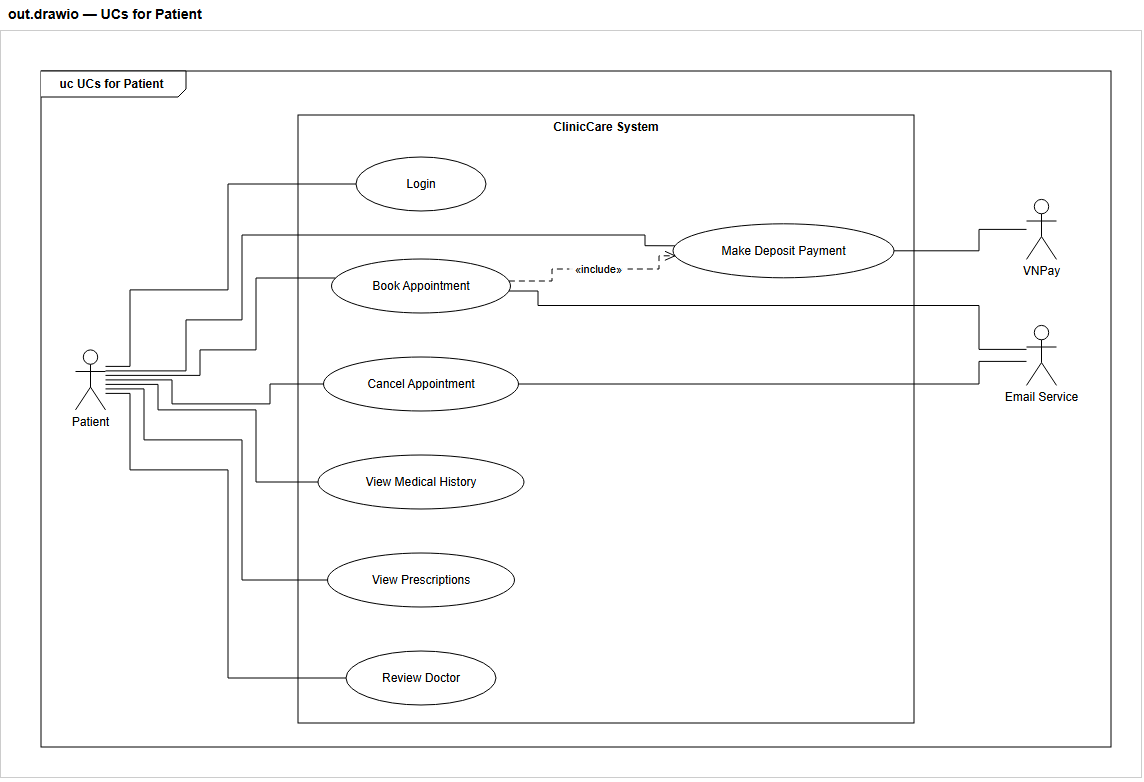
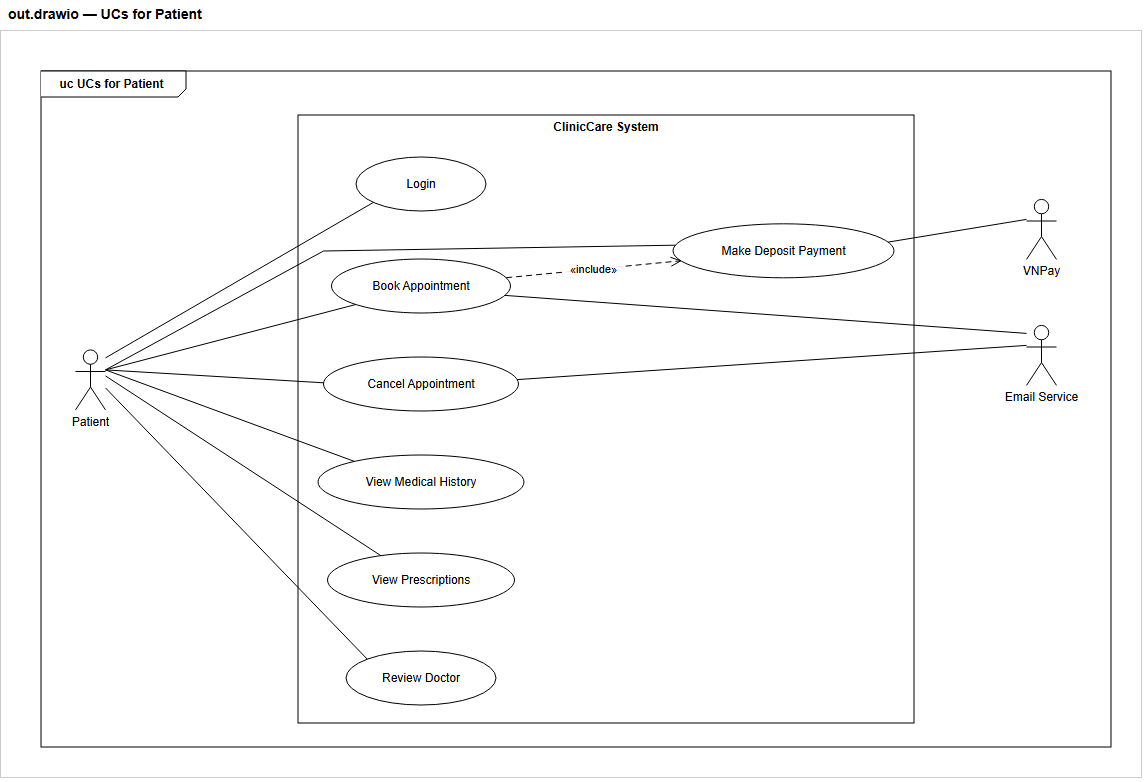
feat(layout): straight use case edges, horizontal activity by default
- Use case: edges are straight segments (one bend only when a shape blocks the
  way), chosen to minimise crossings and near-parallel runs; endpoints slide on
  the ellipse / actor side; labels avoid shapes, actor names and other edges.
- Activity: default direction is LR (flow left->right, lanes stacked
  top->bottom); "direction": "TB" still gives the vertical layout.
- Tests: use case edges have at most one bend; activity default equals LR.
- README / skill docs and preview images updated.

diff --git a/comet-uml-drawio/scripts/uml2drawio.py b/comet-uml-drawio/scripts/uml2drawio.py
@@ -127,7 +127,7 @@ FRAME_KIND = {
     # so do nghiep vu / du lieu (khong phai UML): khung chi ghi ten
     "erd": "", "screenflow": "", "bizcontext": "",
 }
-DEFAULT_DIR = {"usecase": "LR", "communication": "LR"}
+DEFAULT_DIR = {"usecase": "LR", "communication": "LR", "activity": "LR"}
 # quan he khong ghi "type": mac dinh theo loai so do (activity/state: luong co guard; erd: relationship...)
 DEFAULT_REL = {"activity": "flow", "state": "transition", "erd": "relationship", "screenflow": "navigate"}
 
@@ -836,6 +836,312 @@ def _constraint(p, el, kind):
     return "%sX=%s;%sY=%s;%sDx=0;%sDy=0;%sPerimeter=0;" % (kind, _n(fx, 4), kind, _n(fy, 4), kind, kind, kind)
 
 
+def _seg_hits(p, q, r):
+    """Doan pq di vao trong hinh chu nhat r=(x0,y0,x1,y1) (Liang-Barsky)."""
+    dx, dy = q[0] - p[0], q[1] - p[1]
+    t0, t1 = 0.0, 1.0
+    for pp, qq in ((-dx, p[0] - r[0]), (dx, r[2] - p[0]), (-dy, p[1] - r[1]), (dy, r[3] - p[1])):
+        if abs(pp) < 1e-9:
+            if qq < 0:
+                return False
+            continue
+        t = qq / pp
+        if pp < 0:
+            t0 = max(t0, t)
+        else:
+            t1 = min(t1, t)
+        if t0 > t1:
+            return False
+    return t1 - t0 > 1e-6
+
+
+def _orient(o, a, b):
+    return (a[0] - o[0]) * (b[1] - o[1]) - (a[1] - o[1]) * (b[0] - o[0])
+
+
+def _grow(r, d):
+    return (r[0] - d, r[1] - d, r[2] + d, r[3] + d)
+
+
+def _on_ellipse(el, toward):
+    """Diem tren vien ellipse cua el theo tia tu tam toi 'toward'."""
+    a, b = el.sr[2] / 2, el.sr[3] / 2
+    cx, cy = el.ax + a, el.ay + b
+    dx, dy = toward[0] - cx, toward[1] - cy
+    k = math.hypot(dx / a, dy / b) if a and b else 0
+    if k < 1e-9:
+        return (cx, cy)
+    return (cx + dx / k, cy + dy / k)
+
+
+def _ellipse_fan(el, p0):
+    """Cac diem tren vien ellipse quanh p0 (goc tham so lech 0, +-12, ... +-60 do) -> [(do lech, diem)]."""
+    a, b = el.sr[2] / 2, el.sr[3] / 2
+    cx, cy = el.ax + a, el.ay + b
+    t0 = math.atan2((p0[1] - cy) / b, (p0[0] - cx) / a)
+    out = [(0, p0)]
+    for k in range(1, 6):
+        for sgn in (-1, 1):
+            t = t0 + sgn * math.radians(12 * k)
+            out.append((k, (cx + a * math.cos(t), cy + b * math.sin(t))))
+    return out
+
+
+def _on_box(el, toward):
+    """Diem ra khoi khung hinh el tren tia tu tam toi 'toward' (actor, hinh chu nhat)."""
+    w, h = el.sr[2], el.sr[3]
+    cx, cy = el.ax + w / 2, el.ay + h / 2
+    dx, dy = toward[0] - cx, toward[1] - cy
+    k = max(abs(dx) / (w / 2) if w else 0, abs(dy) / (h / 2) if h else 0)
+    if k < 1e-9:
+        return (cx, cy)
+    return (cx + dx / k, cy + dy / k)
+
+
+def _box_fan(el, p0):
+    """Cac diem tren canh cua khung quanh p0 (truot doc canh chua p0 moi 6px) -> [(do lech, diem)]."""
+    x0, y0, w, h = el.ax, el.ay, el.sr[2], el.sr[3]
+    out = [(0, p0)]
+    for k in range(1, 7):
+        for sgn in (-1, 1):
+            d = sgn * 6 * k
+            if abs(p0[0] - x0) < 0.5 or abs(p0[0] - x0 - w) < 0.5:
+                q = (p0[0], p0[1] + d)
+                if y0 + 3 <= q[1] <= y0 + h - 3:
+                    out.append((k, q))
+            else:
+                q = (p0[0] + d, p0[1])
+                if x0 + 3 <= q[0] <= x0 + w - 3:
+                    out.append((k, q))
+    return out
+
+
+def straight_usecase_edges(E, edges, extra):
+    """Use case: canh noi thang thay cho duong be vuong. Moi canh thu doan thang (diem gan truot tren vien ellipse /
+    canh actor); bi hinh, ten actor hay tieu de khung (extra) chan thi vong mot goc sat hinh can duong; bi het thi rut
+    gon duong vuong cua bo cuc. Duong duoc chon de it cat nhau, it chay sat song song, it goc nhat. Nhan canh dat lai
+    tren duong moi, tranh hinh/canh/nhan khac."""
+    shape = {k: (el.ax, el.ay, el.ax + el.sr[2], el.ay + el.sr[3]) for k, el in E.items() if el.sr[2] and el.sr[3]}
+    names = {}   # ten actor ve duoi hinh: (x0, y0, x1, y1)
+    for k, el in E.items():
+        if el.kind == "actor" and el.h > el.sr[3] + el.sr[1] + 1:
+            x0 = el.ax - el.sr[0]
+            names[k] = (x0, el.ay + el.sr[3], x0 + el.w, el.ay - el.sr[1] + el.h)
+    PAD = 6
+    blocks = list(shape.values()) + list(names.values()) + extra
+
+    def ell(k):
+        return E[k].perim == "ellipse"
+
+    def hit_ellipse(p, q, r, d):
+        """Doan pq cham ellipse noi tiep r (noi rong d)."""
+        A, B = (r[2] - r[0]) / 2 + d, (r[3] - r[1]) / 2 + d
+        cx, cy = (r[0] + r[2]) / 2, (r[1] + r[3]) / 2
+        ux, uy, vx, vy = (p[0] - cx) / A, (p[1] - cy) / B, (q[0] - cx) / A, (q[1] - cy) / B
+        dx, dy = vx - ux, vy - uy
+        L2 = dx * dx + dy * dy
+        t = 0.0 if L2 < 1e-12 else max(0.0, min(1.0, -(ux * dx + uy * dy) / L2))
+        return math.hypot(ux + dx * t, uy + dy * t) < 1.0
+
+    def free(p, q, skip):
+        x0, x1 = min(p[0], q[0]) - PAD, max(p[0], q[0]) + PAD
+        y0, y1 = min(p[1], q[1]) - PAD, max(p[1], q[1]) + PAD
+        for k, r in shape.items():
+            if k in skip or r[0] > x1 or r[2] < x0 or r[1] > y1 or r[3] < y0:
+                continue
+            if ell(k):   # ellipse: khong vao khung bao (validator) va cach duong vien >= PAD
+                if _seg_hits(p, q, _grow(r, 1)) or hit_ellipse(p, q, r, PAD):
+                    return False
+            elif _seg_hits(p, q, _grow(r, PAD)):
+                return False
+        if any(_seg_hits(p, q, _grow(r, PAD)) for r in [r for k, r in names.items() if k not in skip] + extra):
+            return False
+        # ten cua chinh actor dau mut: chi can khong cat qua chu
+        return not any(_seg_hits(p, q, _grow(names[k], 2)) for k in skip if k in names)
+
+    def fan(k, p0):
+        return _ellipse_fan(E[k], p0) if ell(k) else _box_fan(E[k], p0)
+
+    def anchor(k, toward):
+        el = E[k]
+        if ell(k):
+            return _on_ellipse(el, toward)
+        if el.kind == "actor":   # moi duong cua actor toa ra tu mot diem ngang tay, phia huong ve dau kia
+            return (el.ax + (el.sr[2] if toward[0] >= el.ax + el.sr[2] / 2 else 0), el.ay + el.sr[3] / 3)
+        return _on_box(el, toward)
+
+    def bbox(P, d=0):
+        return (min(p[0] for p in P) - d, min(p[1] for p in P) - d, max(p[0] for p in P) + d, max(p[1] for p in P) + d)
+
+    def meet(r, t):
+        return r[0] <= t[2] and t[0] <= r[2] and r[1] <= t[3] and t[1] <= r[3]
+
+    def crosses(P, Q):
+        n = 0
+        for p1, q1 in zip(P, P[1:]):
+            for p2, q2 in zip(Q, Q[1:]):
+                if (_orient(p1, q1, p2) * _orient(p1, q1, q2) < -1e-6
+                        and _orient(p2, q2, p1) * _orient(p2, q2, q1) < -1e-6):
+                    n += 1
+        return n
+
+    def samples(P):
+        """Diem mau moi 8px doc duong, bo 14px sat hai dau (cac canh chung dau mut toa ra tu mot cho la binh thuong)."""
+        out = []
+        for p, q in zip(P, P[1:]):
+            L = math.dist(p, q)
+            for i in range(1, int(L // 8)):
+                out.append((p[0] + (q[0] - p[0]) * i * 8 / L, p[1] + (q[1] - p[1]) * i * 8 / L))
+        return [s for s in out if math.dist(s, P[0]) > 14 and math.dist(s, P[-1]) > 14]
+
+    def near(S, Q, d):
+        """So diem mau cua S nam sat (< d) duong Q: hai canh chay song song sat nhau trong nhu mot."""
+        hit = set()
+        for p, q in zip(Q, Q[1:]):
+            x0, x1 = min(p[0], q[0]) - d, max(p[0], q[0]) + d
+            y0, y1 = min(p[1], q[1]) - d, max(p[1], q[1]) + d
+            dx, dy = q[0] - p[0], q[1] - p[1]
+            L2 = dx * dx + dy * dy or 1e-9
+            for i, s in enumerate(S):
+                if i in hit or not (x0 <= s[0] <= x1 and y0 <= s[1] <= y1):
+                    continue
+                t = max(0.0, min(1.0, ((s[0] - p[0]) * dx + (s[1] - p[1]) * dy) / L2))
+                if math.hypot(p[0] + dx * t - s[0], p[1] + dy * t - s[1]) < d:
+                    hit.add(i)
+        return len(hit)
+
+    cands = {}   # canh -> [(chi phi goc, duong, diem mau)]: thang (lech it) < mot goc (ngan) < rut day duong vuong
+    for le in edges:
+        if not le.abs or len(le.abs) < 2 or le.u == le.v:
+            continue
+        P, skip = list(le.abs), {le.u, le.v}
+        su, sv = E[le.u], E[le.v]
+        cu = (su.ax + su.sr[2] / 2, su.ay + su.sr[3] / 2)
+        cv = (sv.ax + sv.sr[2] / 2, sv.ay + sv.sr[3] / 2)
+        a0, b0 = anchor(le.u, cv), anchor(le.v, cu)
+        A, B = fan(le.u, a0), fan(le.v, b0)
+        C = sorted((2 * (da + db), [a, b]) for da, a in A for db, b in B if free(a, b, skip))[:16]
+        # mot goc: vong sat goc cac hinh nam trong vung giua hai dau mut
+        lo = (min(a0[0], b0[0]) - 80, min(a0[1], b0[1]) - 80, max(a0[0], b0[0]) + 80, max(a0[1], b0[1]) + 80)
+        corners = sorted({c for r in blocks if r[0] < lo[2] and lo[0] < r[2] and r[1] < lo[3] and lo[1] < r[3]
+                          for c in ((r[0] - PAD - 2, r[1] - PAD - 2), (r[2] + PAD + 2, r[1] - PAD - 2),
+                                    (r[0] - PAD - 2, r[3] + PAD + 2), (r[2] + PAD + 2, r[3] + PAD + 2))})
+        D = []
+        for c in corners:
+            A1, B1 = fan(le.u, anchor(le.u, c))[:5], fan(le.v, anchor(le.v, c))[:5]
+            for da, a in A1:
+                if not free(a, c, skip):
+                    continue
+                for db, b in B1:
+                    if free(c, b, skip):
+                        D.append((30 + 2 * (da + db) + (math.dist(a, c) + math.dist(c, b) - math.dist(a0, b0)) / 10,
+                                  [a, c, b]))
+        C += sorted(D)[:16]
+        if not C:
+            # rut day: tu moi diem nhay toi diem xa nhat con thay duoc
+            out, i = [P[0]], 0
+            while i < len(P) - 1:
+                j = next((j for j in range(len(P) - 1, i, -1) if free(P[i], P[j], skip)), i + 1)
+                out.append(P[j])
+                i = j
+            # dau mut tren ellipse: dat lai tren vien theo huong doan ke (khong cat vao trong hinh)
+            if ell(le.u) and len(out) > 2:
+                a = anchor(le.u, out[1])
+                if free(a, out[1], skip):
+                    out[0] = a
+            if ell(le.v) and len(out) > 2:
+                b = anchor(le.v, out[-2])
+                if free(out[-2], b, skip):
+                    out[-1] = b
+            C = [(0, out)]
+        cands[le.id] = [(c, p, samples(p), bbox(p, 24)) for c, p in C]
+
+    # chon duong: it cat nhau nhat, roi it chay sat, it goc / lech; lap vai vong vi moi canh phu thuoc canh khac
+    live = [le for le in edges if le.id in cands]
+    cur = {le.id: 0 for le in live}
+
+    memo = {}
+
+    def pair(le, i, o, j):
+        """Phat giua duong i cua canh le va duong j cua canh o (nho lai: cac vong lap tinh lai cung cap)."""
+        key = (le.id, i, o.id, j)
+        if key not in memo:
+            _, P, S, bb = cands[le.id][i]
+            _, Q, _, qb = cands[o.id][j]
+            # hai canh deu co nhan (vd «include» + «extend») can cach xa hon de hai nhan khong de nhau
+            memo[key] = (100 * crosses(P, Q) + 2 * near(S, Q, 24 if le.label and o.label else 11)
+                         if meet(bb, qb) else 0)
+        return memo[key]
+
+    def cost(le, i, others):
+        c, P, S, bb = cands[le.id][i]
+        for o, j in others:
+            Q = cands[o.id][j][1]
+            # hai canh cung cham mot ellipse gan nhau: mui ten / nhan chong len nhau
+            for x, px in ((le.u, P[0]), (le.v, P[-1])):
+                if ell(x):
+                    for y, qx in ((o.u, Q[0]), (o.v, Q[-1])):
+                        if y == x and math.dist(px, qx) < 16:
+                            c += 25
+            c += pair(le, i, o, j)
+        return c
+
+    for _ in range(4):
+        changed = False
+        for le in live:
+            others = [(o, cur[o.id]) for o in live if o is not le]
+            best = min(range(len(cands[le.id])), key=lambda i: (cost(le, i, others), i))
+            if best != cur[le.id]:
+                cur[le.id], changed = best, True
+        if not changed:
+            break
+    for le in live:
+        le.abs = cands[le.id][cur[le.id]][1]
+
+    # ---- nhan canh: thu cac vi tri doc theo duong, uu tien giua; tranh hinh, ten actor, canh khac, nhan da dat
+    placed = []
+
+    def lab_ok(r, own):
+        if any(_grow(r, 1)[0] < s[2] and s[0] < _grow(r, 1)[2] and _grow(r, 1)[1] < s[3] and s[1] < _grow(r, 1)[3]
+               for s in list(shape.values()) + list(names.values()) + extra + placed):
+            return False
+        return not any(_seg_hits(p, q, _grow(r, 2)) for le in edges if le is not own and le.abs
+                       for p, q in zip(le.abs, le.abs[1:]))
+
+    def along(pts, f):
+        L = [math.dist(p, q) for p, q in zip(pts, pts[1:])]
+        t = f * sum(L)
+        for (p, q), l in zip(zip(pts, pts[1:]), L):
+            if t <= l and l > 0:
+                return (p[0] + (q[0] - p[0]) * t / l, p[1] + (q[1] - p[1]) * t / l)
+            t -= l
+        return pts[-1]
+
+    def put(le, size, fracs):
+        w, h = size
+        for f in fracs:
+            for dx, dy in ((0, 0), (0, -(h / 2 + 5)), (0, h / 2 + 5), (-(w / 2 + 5), 0), (w / 2 + 5, 0)):
+                cx, cy = along(le.abs, f)
+                cx, cy = cx + dx, cy + dy
+                r = (cx - w / 2, cy - h / 2, cx + w / 2, cy + h / 2)
+                if lab_ok(r, le):
+                    placed.append(r)
+                    return (cx, cy)
+        cx, cy = along(le.abs, fracs[0])
+        placed.append((cx - w / 2, cy - h / 2, cx + w / 2, cy + h / 2))
+        return (cx, cy)
+
+    for le in edges:
+        if not le.abs:
+            continue
+        if le.label and le.lab:
+            le.alab = put(le, le.lab, (0.5, 0.42, 0.58, 0.34, 0.66, 0.26, 0.74, 0.18, 0.82))
+        if le.sl and le.slab:
+            le.asrc = put(le, le.slab, (0.12, 0.2, 0.28))
+        if le.dl and le.dlab:
+            le.adst = put(le, le.dlab, (0.88, 0.8, 0.72))
+
+
 def build_graph(spec, warns, origin):
     diagram = spec["diagram"]
     direction = str(spec.get("direction", DEFAULT_DIR.get(diagram, "TB"))).upper()
@@ -1017,6 +1323,15 @@ def build_graph(spec, warns, origin):
                 lanes_abs.append((lid, nm, x - d, y, rw + d + LANE_PAD1, rh))
 
     place(None, origin[0], origin[1])
+
+    if diagram == "usecase" and not tree and not any(kids.get(k) for k in E):
+        extra = []
+        if bnd:   # tieu de khung he thong: canh khong ke ngang qua
+            title, x0, y0, x1, y1 = bnd
+            tw, th = text_size(title, 12, True)
+            cx = (x0 + x1) / 2
+            extra.append((cx - tw / 2, y0 + 2, cx + tw / 2, y0 + 6 + th))
+        straight_usecase_edges(E, level_edges.get(None, []), extra)
 
     # communication: build message labels now that positions are known
     if diagram == "communication":

diff --git a/comet-uml-drawio/tests/run_tests.py b/comet-uml-drawio/tests/run_tests.py
@@ -617,6 +617,19 @@ class TestGenerator(unittest.TestCase):
         self.assertEqual(len(over), 1, pts)
         self.assertLess(over[0], y0)
 
+    def test_usecase_edges_are_straight(self):
+        # canh use case la doan thang (toi da mot goc khi phai vong qua hinh), khong be vuong; khong cat, khong de hinh
+        # ATM: Query Account nam giua Withdraw/Transfer, ca ba «include» Validate PIN -> canh Query Account -> Bank
+        # Server buoc phai cat mot «include» (vong tren hay duoi Validate PIN deu vay)
+        atm = json.loads((EXAMPLES / "atm_usecase.json").read_text(encoding="utf-8"))
+        for sp, max_cross in ((UC_INCLUDE_SPEC, 0), (atm, 1)):
+            with self.subTest(title=sp["title"]):
+                xml, cs, G = self.clean(sp)
+                bends = sorted(len(pts) - 2 for _, pts in G.edges.values())
+                self.assertLessEqual(bends[-1], 1, bends)
+                self.assertLessEqual(sum(bends), 2, bends)
+                self.assertLessEqual(len(edge_crossings(G)), max_cross)
+
     def test_class_notation(self):
         xml, cs, G = self.clean(CLASS_SPEC)
         gz, rz = style(edge_between(cs, "chk", "acct")), style(edge_between(cs, "acct", "ifc"))
@@ -704,6 +717,8 @@ class TestGenerator(unittest.TestCase):
                     self.assertGreaterEqual(er[1] if direction == "TB" else er[0],
                                             (lr[1] if direction == "TB" else lr[0]) + 30, k)   # duoi tieu de lan
                 self.assertEqual(check(sp)[:2], ([], []))
+        self.assertNotIn("direction", ACT_SPEC)   # mac dinh ve ngang
+        self.assertEqual(gen(ACT_SPEC)[0], gen(dict(ACT_SPEC, direction="LR"))[0])
 
     def test_partition_warnings(self):
         sp = copy.deepcopy(ACT_SPEC)

diff --git a/comet-uml-drawio/SKILL.md b/comet-uml-drawio/SKILL.md
@@ -9,7 +9,7 @@ Bộ skill này tách việc vẽ sơ đồ thành 3 bước để AI **không b
 
 1. **Mô hình hoá** (việc của AI): viết *spec JSON* mô tả phần tử + quan hệ/message theo UML & COMET.
 2. **Bố cục + sinh XML** (việc của script): `scripts/uml2drawio.py` tự tính vị trí (Sugiyama layered layout),
-   định tuyến đường nối vuông góc theo làn riêng, chừa chỗ cho nhãn → không hình nào chồng/dính nhau,
+   định tuyến đường nối vuông góc theo làn riêng (use case: đường thẳng), chừa chỗ cho nhãn → không hình nào chồng/dính nhau,
    không đường nào đi xuyên hình hoặc đè khít lên đường khác.
 3. **Lập canonical semantic model + kiểm tra**: `scripts/comet_model.py` tạo semantic model v2 (canonical concept + diagram-local representation + provenance + impact graph), sau đó `scripts/validate_drawio.py` (hình học + UML lint) và `scripts/comet_check.py`; khi đã có canonical model thì dùng `scripts/comet_reconcile.py` để kiểm tra projection drift
    (nhất quán COMET giữa các sơ đồ) → mở bằng draw.io MCP hoặc giao file `.drawio`.

diff --git a/comet-uml-drawio/references/spec-format.md b/comet-uml-drawio/references/spec-format.md
@@ -16,7 +16,7 @@ trung tâm trước, quan hệ theo luồng chính trước).
 | `stateMachineOf` | state | Tên lớp «state dependent control» (khớp R7/R8) |
 | `system` | usecase | Tên hệ thống trên system boundary (mặc định = `title`) |
 | `bundle` | mọi sơ đồ | Khoá namespace cho toàn bộ bộ diagram của cùng một hệ thống; nên đặt giống nhau cho tất cả spec. Khi có bundle, các luật consistency/traceability không mượn dữ liệu từ bundle khác; spec cũ không có bundle vẫn tương thích |
-| `direction` | | `TB` (trên→dưới) hoặc `LR` (trái→phải). Mặc định `LR` cho usecase/communication, `TB` còn lại |
+| `direction` | | `TB` (trên→dưới) hoặc `LR` (trái→phải). Mặc định `LR` cho usecase/communication/activity, `TB` còn lại |
 | `frame` | | `false` để bỏ khung UML ngoài |
 | `autonumber` | | communication: tự đánh số message nếu thiếu `seq` (mặc định true); sequence: mặc định false |
 | `elements` | ✔ | Danh sách phần tử |

diff --git a/comet-uml-drawio/commands/uml-activity/SKILL.md b/comet-uml-drawio/commands/uml-activity/SKILL.md
@@ -34,6 +34,8 @@ bằng ngôn ngữ của họ.
 - `"diagram": "activity"`, `"title"`, tuỳ chọn `"useCase"` (tên use case y hệt use case model).
 - Swimlane: `"partitions": ["Customer", "System", "Payment Gateway"]` (thứ tự = thứ tự làn) + mỗi phần tử có
   `"partition"`. Mỗi action nằm trong làn của bên **thực hiện** nó.
+- Mặc định vẽ **ngang** (`"direction": "LR"`: luồng trái→phải, làn xếp trên→dưới); chỉ ghi `"direction": "TB"` khi
+  người dùng muốn sơ đồ dọc.
 - Nút: `initial` (đúng 1, không luồng vào, 1 luồng ra), `action` (động từ + bổ ngữ: "Enter PIN", "Validate Order"),
   `decision` (1 vào, ≥ 2 ra), `merge` (≥ 2 vào, 1 ra), `fork` / `join` (song song), `activityFinal` (kết thúc cả
   activity), `flowFinal` (kết thúc một luồng).
